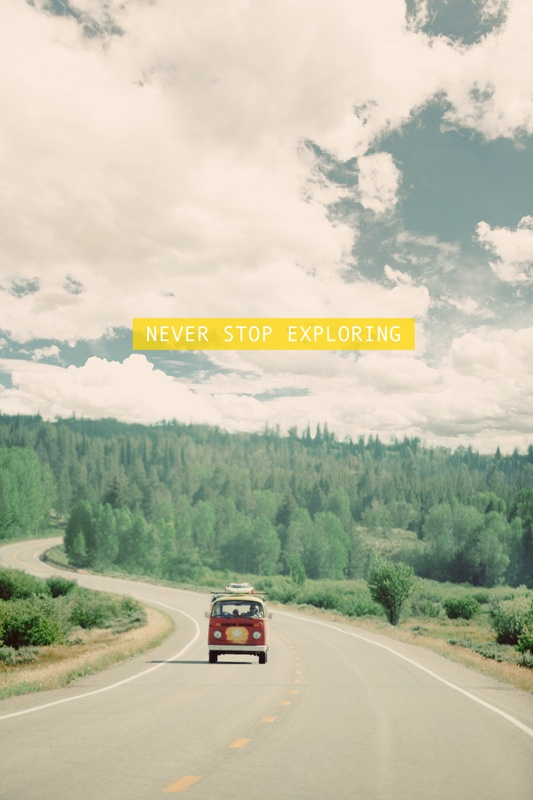
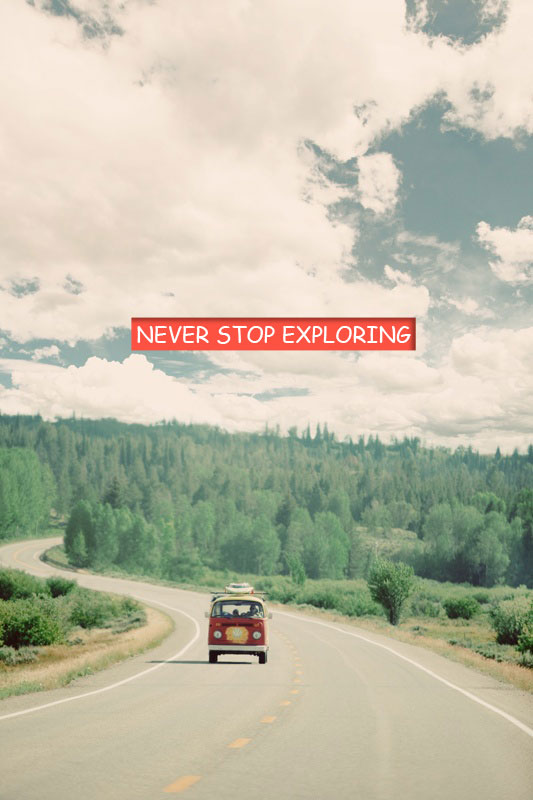
some fixes for lovely Olya

Changed region(s): [[0.2402, 0.375, 0.7805, 0.4375]]

diff --git a/index.html b/index.html
@@ -5,28 +5,8 @@
 	<link rel="shortcut icon" href="http://onepagelove.wpengine.netdna-cdn.com/favicon.ico">
 	<title>Eva Malika lovely!</title>
 </head>
-<body style="
-    background-color: #FC5242;
-    margin: 0px;
-">
-	<img src="/img/pic1.jpg" width="533" height="800" alt="" style="
-    margin: auto;
-    display: block;
-    position: fixed;
-    left: 410px;
-">
-<div style="
-    position: fixed;
-    top: 317px;
-    left: 540px;
-    background-color: #fc5242;
-    width: 287px;
-    text-align: center;
-    height: 30px;
-    padding-top: 5px;
-    color: white;
-    font-family: cursive;
-"> NEVER STOP EXPLORING </div>
-
+<body style=" background-color: #FC5242; ">
+	<img src="img/logo.png" alt="logo">
+	<img src="img/pic1.jpg" alt="never stop exploring">
 </body>
 </html>
